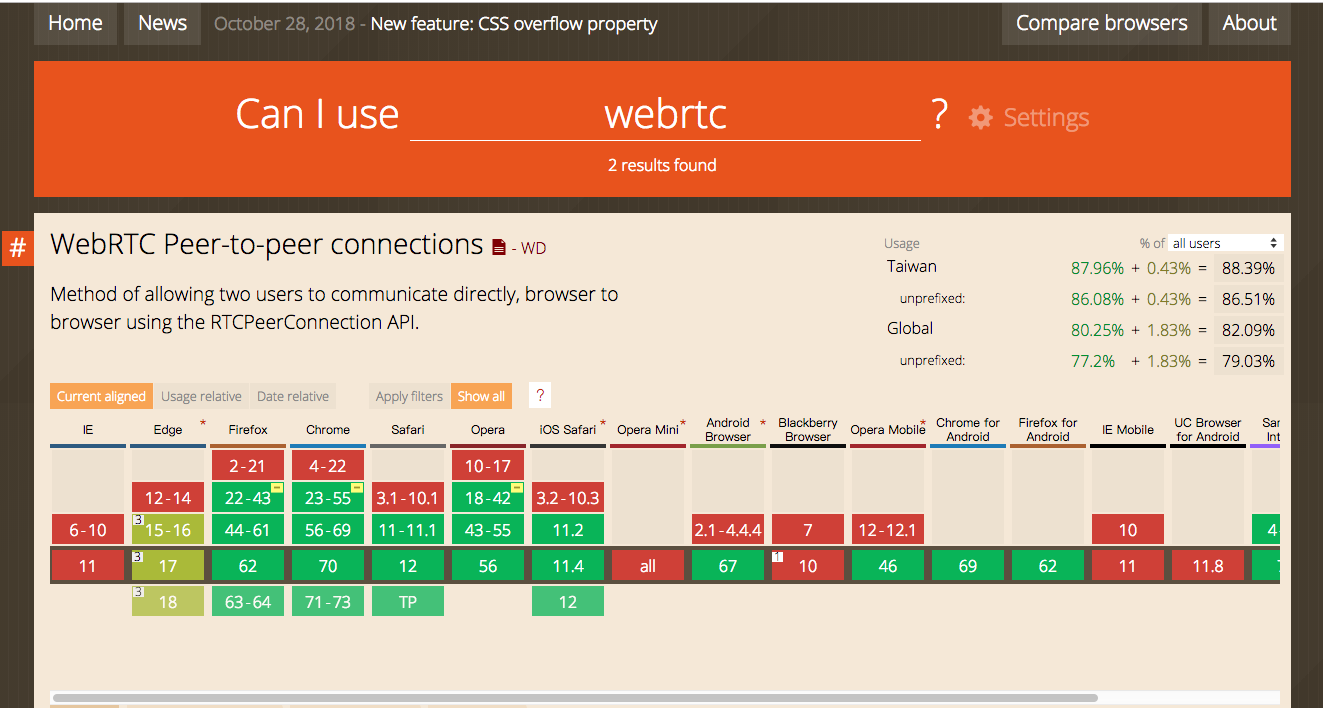
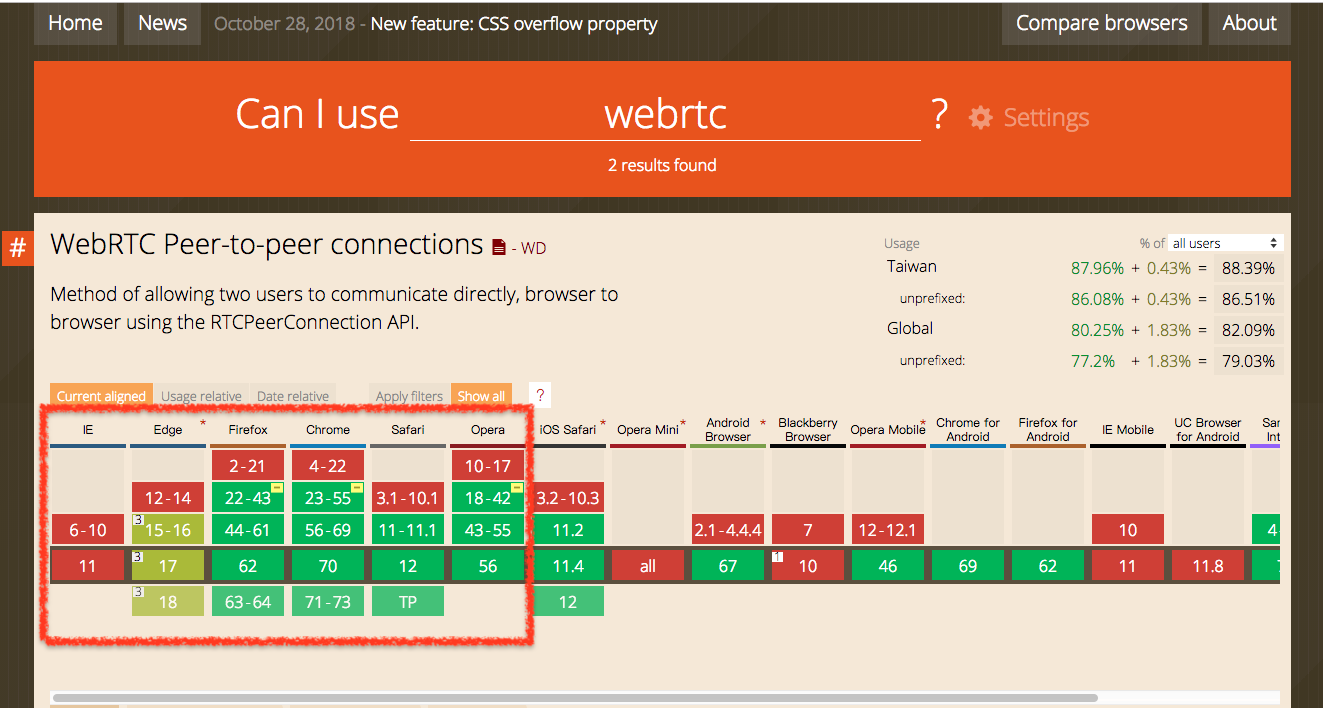
add img

Changed region(s): [[0.031, 0.5593, 0.4029, 0.9322]]

diff --git a/2018/article/day14.md b/2018/article/day14.md
@@ -1,0 +1,19 @@
+## instascan的介紹
+---
+
+今天要大略解析一下instascan這個專案。
+前幾天有Demo了我串[instascan](https://github.com/schmich/instascan)之後的成果[傳送門](https://ithelp.ithome.com.tw/articles/10205709)，主要是`實現跨平台可以實現一樣的功能- **使用網頁開啟相機掃描QRCode** `!
+
+那麼[instascan](https://github.com/schmich/instascan)又是用什麼技術組成的呢？    
+且待我略薄的分析一下....
+
+### WebRTC
+
+[WebRTC](https://webrtc.org/)的全名是「Web Real-Time Communication」- 網頁即時通訊
+是為了實現跨平台、跨瀏覽器、在跨設備上都可以使用**網頁瀏覽器**來進行即時的影音通訊協定，這個計畫是由Google、Mozila和Opera所提倡並支援，並且為開源專案。
+
+官方網站目前為Google來做維護，可以看到官網上有寫到WebRTC的使命
+>**Our mission:** To enable rich, high-quality RTC applications to be developed for the browser, mobile platforms, and IoT devices, and allow them all to communicate via a common set of protocols.
+
+我們到[Can I use](https://caniuse.com/)查詢WebRTC的支援度如下。
+![Can I use_WebRTC](https://github.com/tinatyc/King-Ironman-30Day-Challenge/blob/master/2018/article/img/day14_1.png?raw=true)
